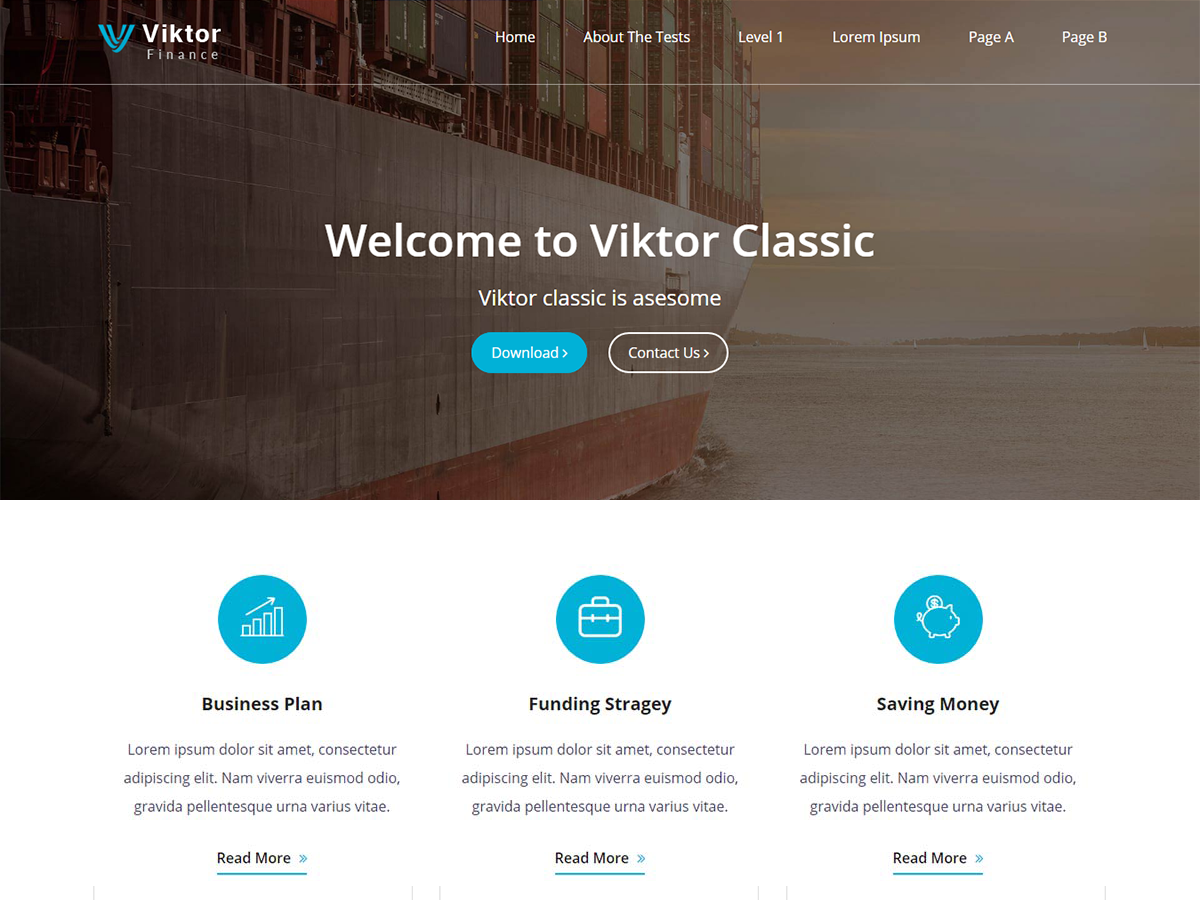
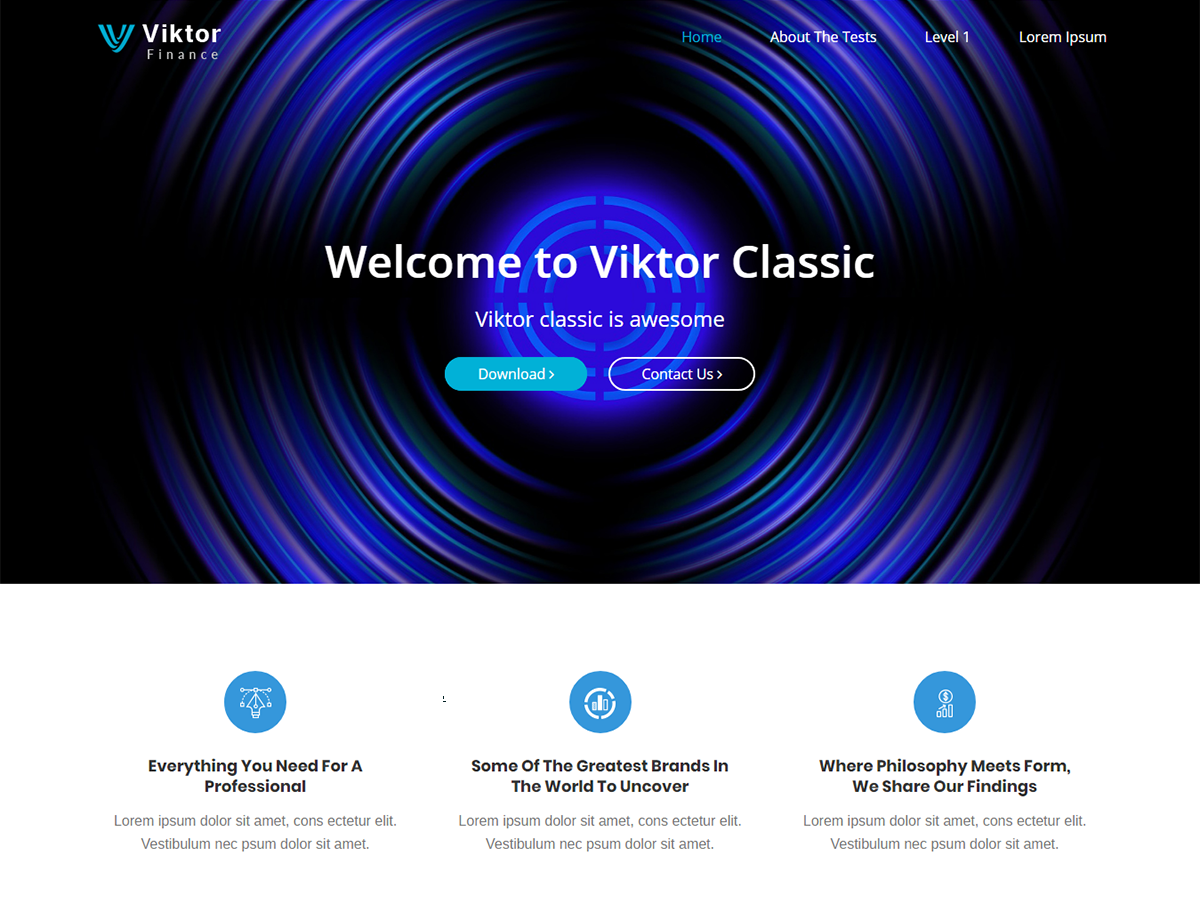
screenshit updated & bug fixed

diff --git a/style.css b/style.css
@@ -11,9 +11,7 @@ License URI: http://www.gnu.org/licenses/gpl-2.0.html
 Tags: custom-background, custom-logo, custom-menu, featured-images, threaded-comments, translation-ready, one-column, two-columns, blog, right-sidebar, theme-options, footer-widgets, left-sidebar, grid-layout, custom-header
 Text Domain: viktor-classic
 */
-header { 
-    border-bottom: 1px solid rgba(255, 255, 255, 0.5);
-}
+
 header.fixed-header{ 
     border-bottom-color: #000;
 }
@@ -32,10 +30,7 @@ header.fixed-header{
 }
 .vcontent.no-img{
 	border-top-width: 1px; 
-}
-.inner-page-header { 
-    height: 590px;
-}
+} 
 .banner-botton {
     padding-top: 15px;
 }
@@ -56,7 +51,7 @@ header.fixed-header{
 .classic .header-page-title a {
     border: 2px solid #fff;
     border-radius: 50px;
-    padding: 10px 20px; 
+    padding: 6px 35px; 
     margin: 0 10px;
 }
 .classic .header-page-title li:nth-child(1) a{
@@ -68,8 +63,13 @@ header.fixed-header{
 	color: #fff;
 }
 .classic.inner-page-header {
-    padding: 240px 0 170px !important;
-    height: inherit;
+	width: 100vw; 
+    height: 100vh;
+    vertical-align: middle;
+    display: table-cell;
+    padding-top: 13%;
+    background-attachment: fixed !important;
+    padding: 3% 0 0 0 !important;
 }
 .mean-container .mean-nav ul li a.mean-expand {
     width: 20px;

diff --git a/functions.php b/functions.php
@@ -75,7 +75,7 @@ function viktor_classic_short_text_remove_shortcode($start=0,$end=90){
  */ 
 function vikor_classic_banner_temp(){ 
 	$h1_text = (!empty(get_theme_mod( 'h1_text' ))) ? get_theme_mod( 'h1_text' ) : 'Welcome to Viktor Classic';
-	$h3_text = (!empty(get_theme_mod( 'h3_text' ))) ? get_theme_mod( 'h3_text' ) : 'Viktor classic is asesome'; 
+	$h3_text = (!empty(get_theme_mod( 'h3_text' ))) ? get_theme_mod( 'h3_text' ) : 'Viktor classic is awesome'; 
 	$btn_left = (!empty(get_theme_mod( 'btn_left' ))) ? get_theme_mod( 'btn_left' ) : 'Download'; 
 	$btn_left_link = (!empty(get_theme_mod( 'btn_left_link' ))) ? get_theme_mod( 'btn_left_link' ) : '#'; 
 	$btn_right = (!empty(get_theme_mod( 'btn_right' ))) ? get_theme_mod( 'btn_right' ) : 'Contact Us'; 
@@ -107,76 +107,76 @@ function vikor_classic_banner_temp(){
 function viktor_classic_customize_register( $wp_customize ) { 
   
 	$wp_customize->add_setting( 'h1_text' , array(
-	    'default'     => '',
-	    'transport'   => 'postMessage', 
+	    'default'     		=> '',
+	    'transport'  		=> 'postMessage', 
 	    'sanitize_callback' => 'sanitize_text_field',
 	) ); 
 	$wp_customize->add_control( 'h1_text', array(
-	    'label' => __( 'Title', 'viktor-lite' ),
-		'section'	=> 'header_image',
-		'setting'	=> 'h1_text',
-		'type'	 => 'text',
-        'description'   => 'Write title here.'
+	    'label' 			=> __( 'Title', 'viktor-lite' ),
+		'section'			=> 'header_image',
+		'setting'			=> 'h1_text',
+		'type'	 			=> 'text',
+        'description'   	=> __( 'Write title here.', 'viktor-lite' ),
 	) ); 
 	$wp_customize->add_setting( 'h3_text' , array(
-	    'default'     => '',
-	    'transport'   => 'postMessage', 
+	    'default'     		=> '',
+	    'transport'   		=> 'postMessage', 
 	    'sanitize_callback' => 'sanitize_text_field',
 	) ); 
 	$wp_customize->add_control( 'h3_text', array(
-	    'label' => __( 'Subtitle', 'viktor-lite' ),
-		'section'	=> 'header_image',
-		'setting'	=> 'h3_text',
-		'type'	 => 'text',
-        'description'   => 'Write subtitle here.'
+	    'label' 			=> __( 'Subtitle', 'viktor-lite' ),
+		'section'			=> 'header_image',
+		'setting'			=> 'h3_text',
+		'type'	 			=> 'text',
+        'description'   	=> __( 'Write subtitle here.', 'viktor-lite' ), 
 	) ); 
 	$wp_customize->add_setting( 'btn_left' , array(
-	    'default'     => '',
-	    'transport'   => 'postMessage', 
+	    'default'     		=> '',
+	    'transport'   		=> 'postMessage', 
 	    'sanitize_callback' => 'sanitize_text_field',
 	) ); 
 	$wp_customize->add_control( 'btn_left', array(
-	    'label' => __( 'Button Left Title', 'viktor-lite' ),
-		'section'	=> 'header_image',
-		'setting'	=> 'btn_left',
-		'type'	 => 'text',
-        'description'   => 'Button left title here.'
+	    'label' 			=> __( 'Button Left Title', 'viktor-lite' ),
+		'section'			=> 'header_image',
+		'setting'			=> 'btn_left',
+		'type'	 			=> 'text',
+        'description'   	=> __( 'Button left title here.', 'viktor-lite' ),
 	) ); 
 	$wp_customize->add_setting( 'btn_left_link' , array(
-	    'default'     => '',
-	    'transport'   => 'postMessage', 
+	    'default'     		=> '',
+	    'transport'   		=> 'postMessage', 
 	    'sanitize_callback' => 'sanitize_text_field',
 	) ); 
 	$wp_customize->add_control( 'btn_left_link', array(
-	    'label' => __( 'Button Left Link', 'viktor-lite' ),
-		'section'	=> 'header_image',
-		'setting'	=> 'btn_left_link',
-		'type'	 => 'text',
-        'description'   => 'Button left link here.'
+	    'label' 			=> __( 'Button Left Link', 'viktor-lite' ),
+		'section'			=> 'header_image',
+		'setting'			=> 'btn_left_link',
+		'type'	 			=> 'text',
+        'description'   	=> __( 'Button left link here.', 'viktor-lite' ),
 	) ); 
 	$wp_customize->add_setting( 'btn_right' , array(
-	    'default'     => '',
-	    'transport'   => 'postMessage', 
+	    'default'     		=> '',
+	    'transport'   		=> 'postMessage', 
 	    'sanitize_callback' => 'sanitize_text_field',
 	) ); 
 	$wp_customize->add_control( 'btn_right', array(
-	    'label' => __( 'Button Right Title', 'viktor-lite' ),
-		'section'	=> 'header_image',
-		'setting'	=> 'btn_right',
-		'type'	 => 'text',
-        'description'   => 'Button left title here.'
+	    'label' 			=> __( 'Button Right Title', 'viktor-lite' ),
+		'section'			=> 'header_image',
+		'setting'			=> 'btn_right',
+		'type'	 			=> 'text',
+        'description'   	=> __( 'Button right title here.', 'viktor-lite' ),
 	) ); 
 	$wp_customize->add_setting( 'btn_right_link' , array(
-	    'default'     => '',
-	    'transport'   => 'postMessage', 
+	    'default'     		=> '',
+	    'transport'   		=> 'postMessage', 
 	    'sanitize_callback' => 'sanitize_text_field',
 	) ); 
 	$wp_customize->add_control( 'btn_right_link', array(
-	    'label' => __( 'Button Right Link', 'viktor-lite' ),
-		'section'	=> 'header_image',
-		'setting'	=> 'btn_right_link',
-		'type'	 => 'text',
-        'description'   => 'Button right link here.'
+	    'label' 			=> __( 'Button Right Link', 'viktor-lite' ),
+		'section'			=> 'header_image',
+		'setting'			=> 'btn_right_link',
+		'type'	 			=> 'text',
+        'description'   	=> __( 'Button right link here.', 'viktor-lite' ),
 	) ); 
 }
 add_action( 'customize_register', 'viktor_classic_customize_register' );

diff --git a/single.php b/single.php
@@ -11,8 +11,7 @@
 get_header(); ?>
 
 	<div id="primary" class="content-area">
-		<main id="main" class="site-main">
-
+		<main id="main" class="site-main"> 
 	        <!-- News Details Page start here -->
 	        <div class="news-page-area single-news-page-area">
 	            <div class="container">
@@ -20,7 +19,7 @@ get_header(); ?>
 	                    <div class="col-lg-9 col-md-9 col-sm-9 col-xs-12">
 	                    	<?php if ( have_posts() ) : while ( have_posts() ) : the_post(); ?>
 		                        <div class="single-news-page" id="post-<?php the_ID(); ?>">
-		                            <?php get_template_part('template-parts/content','single'); ?>
+		                           <?php get_template_part('template-parts/content','single'); ?>
 	                               <?php 
 									// If comments are open or we have at least one comment, load up the comment template.
 									if ( comments_open() || get_comments_number() ) :

diff --git a/header.php b/header.php
@@ -62,7 +62,7 @@ wp_head(); ?>
     if(is_home() && is_front_page()){
         vikor_classic_banner_temp();
     }else{
-        vikor_classic_banner_temp();
+        vikor_lite_banner_temp();
     }  
     ?>    
 

diff --git a/search.php b/search.php
@@ -7,7 +7,7 @@
  * @version 1.2.8
  * @package Viktor_Classic
  */
-$viktor_lite_option = new Viktor_Lite_Options();
+
 get_header(); ?>
 
     <div id="primary" class="content-area">

diff --git a/archive.php b/archive.php
@@ -7,7 +7,7 @@
  * @version 1.2.8
  * @package Viktor_Classic
  */
-$viktor_lite_option = new Viktor_Lite_Options();
+
 get_header(); ?>
 
 	<div id="primary" class="content-area">
